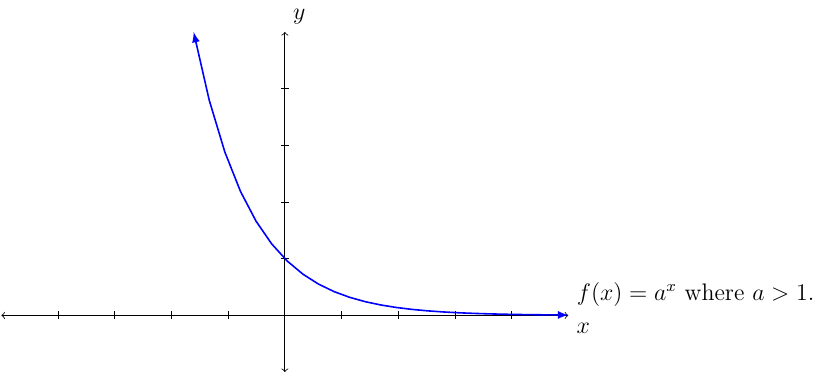
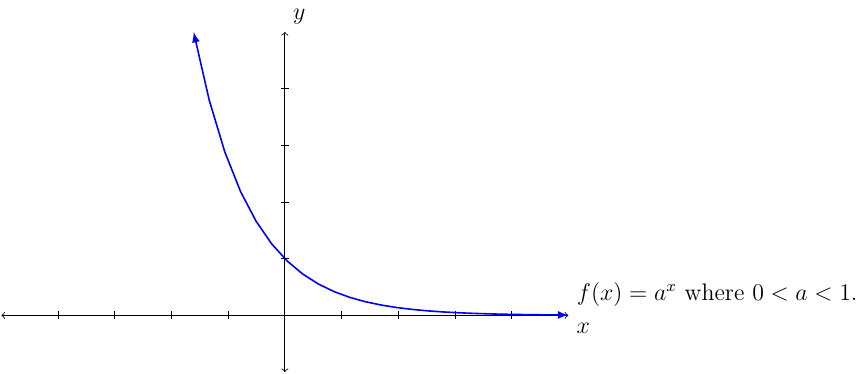
fixed image typo

diff --git a/doc/chapter4/42.md b/doc/chapter4/42.md
@@ -95,3 +95,22 @@ The graph of $f(x)=a^x$ when $a>1$ we have:
 The graph of $f(x)=a^x$ where $0<a<1$ we have:
 
 ![the graph of an exponential function where the base is between 0 and 1](images/abwzeroandone.png)
+
+::::{prf:example}
+:label: expEqExam1
+Solve $2^{x^2-x}=64$.
+
+:::{dropdown} Solution:
+We want to use the fact that $a^m=a^n$ if and only if $m=n$. However, the equation does not satify the left-hand-side condition. However, $64=2^6$. That is,
+
+$$2^{x^2-x}=2^6$$ 
+
+Which implies $x^2-x=6$. Solve this equation we have:
+
+\begin{align*}
+    x^2-x & = 6\\
+    x^2-x-6 & = 0\\
+    (x-3)(x+2) & = 0
+\end{align*}
+:::
+::::
